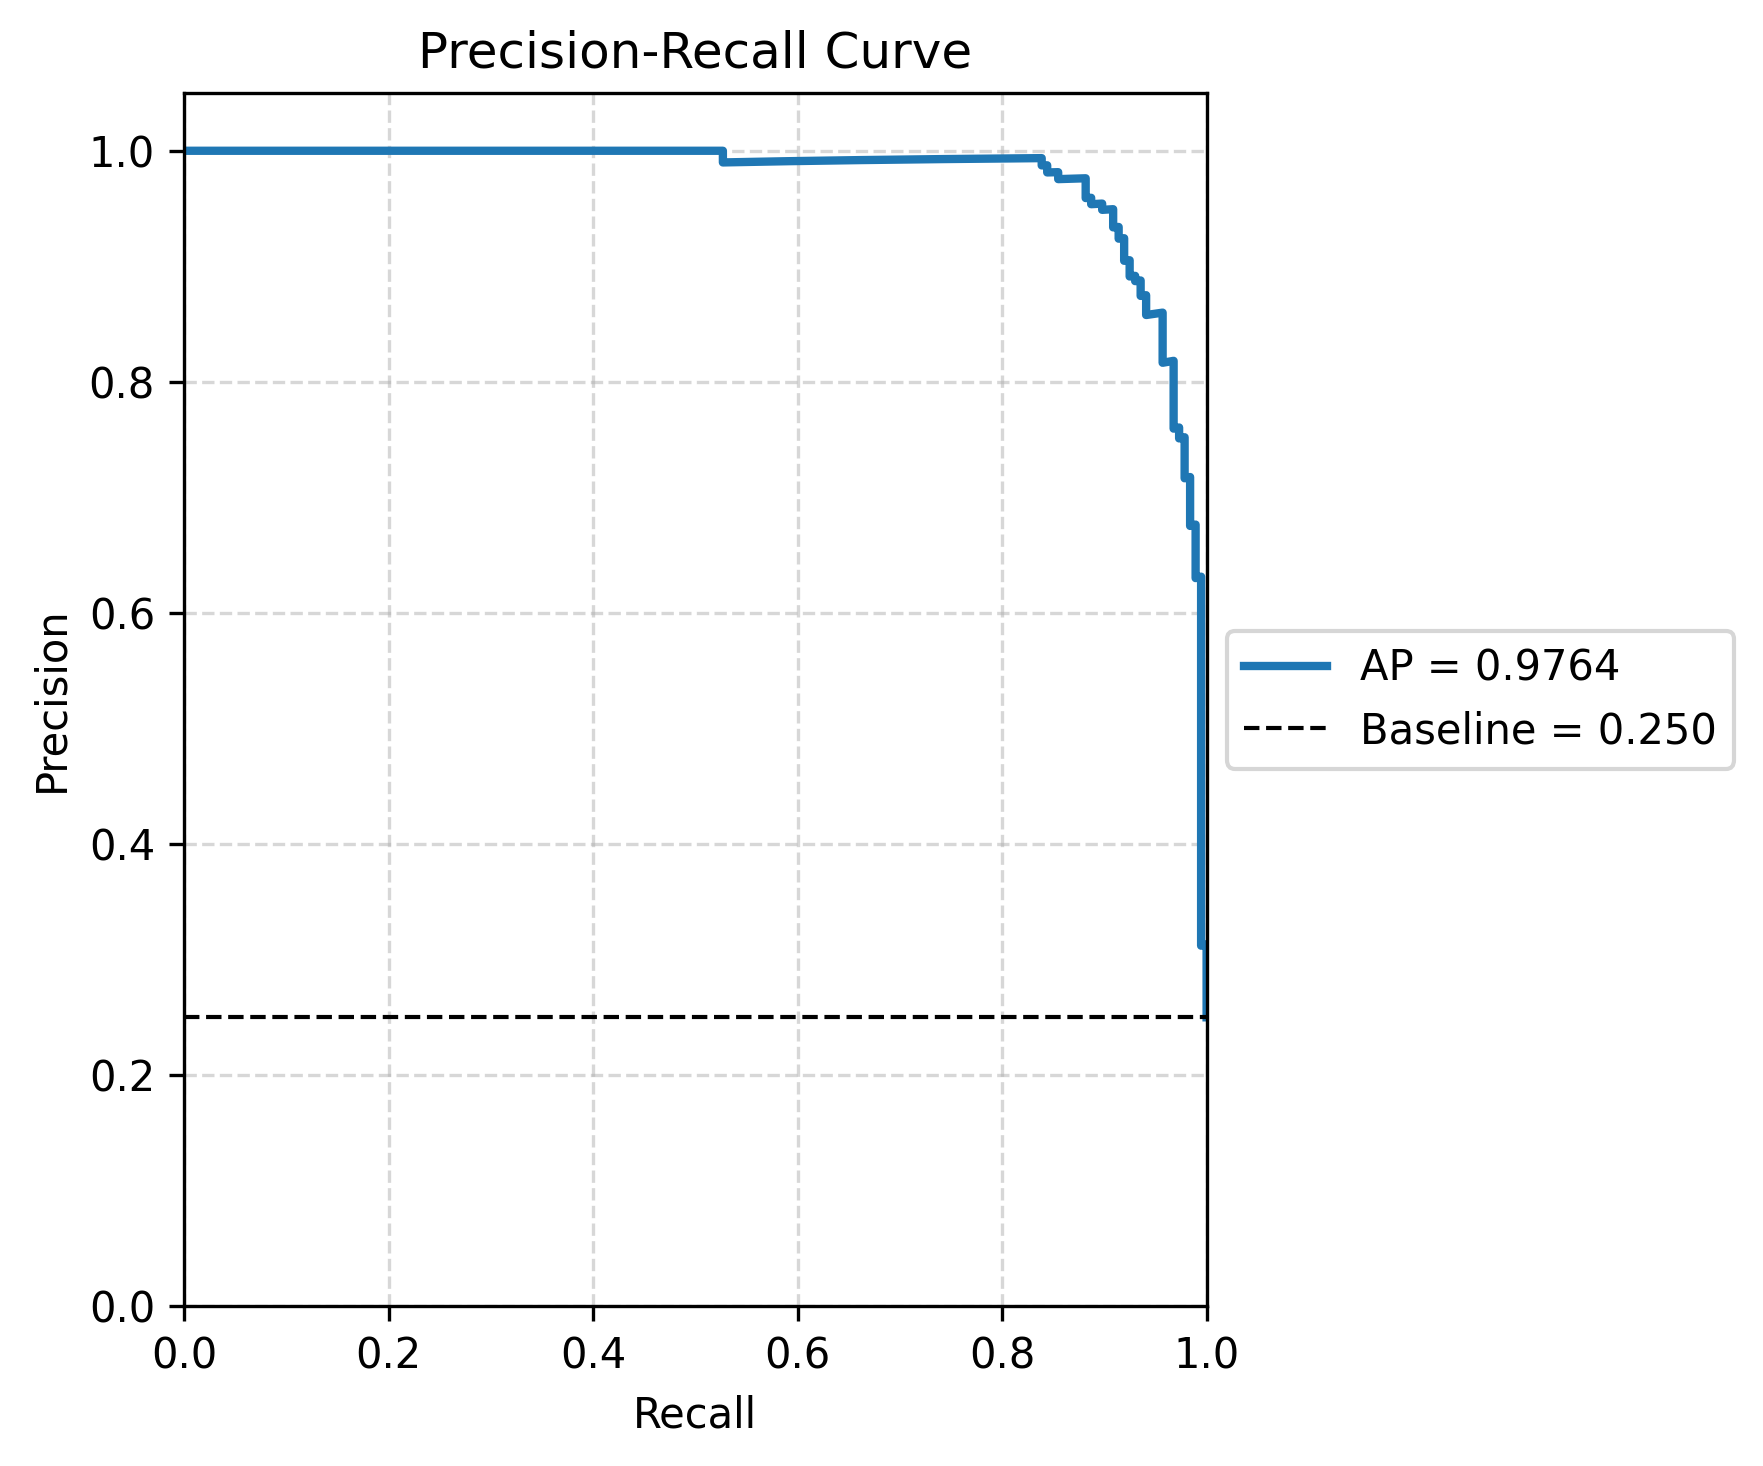
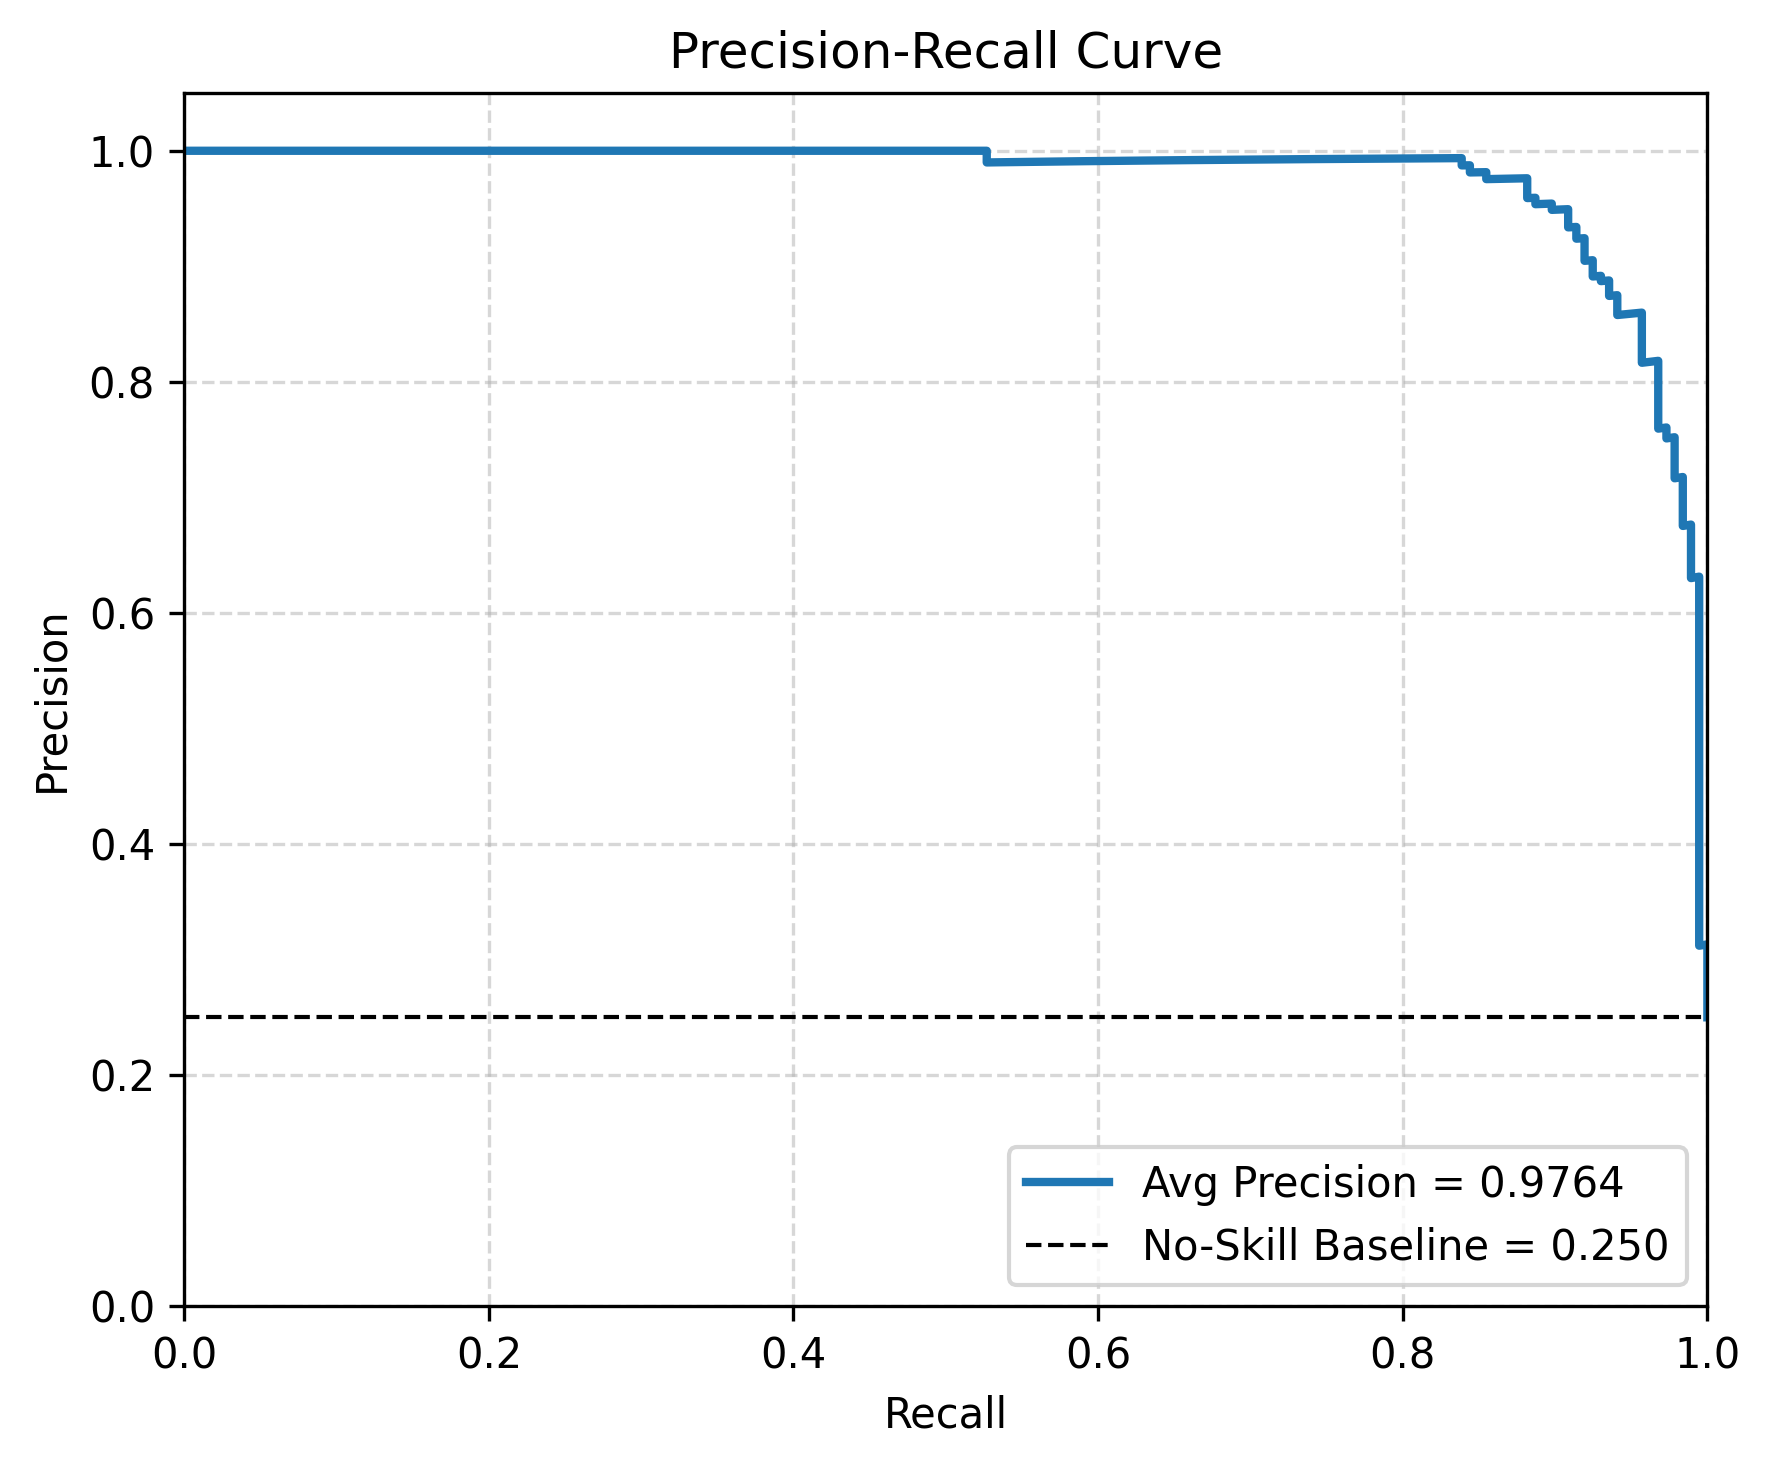
Add model3 evaluation artifacts and PR-curve labeling update

diff --git a/src/elp_gunshot/evaluate_cnn.py b/src/elp_gunshot/evaluate_cnn.py
@@ -145,13 +145,12 @@ def plot_pr_curve(preds_df: pd.DataFrame, output_dir: Path) -> None:
     baseline = y_true.mean()
 
     fig, ax = plt.subplots(figsize=(6, 5))
-    ax.plot(recall, precision, lw=2, label=f"AP = {ap:.4f}")
-    ax.axhline(baseline, color="k", linestyle="--", lw=1, label=f"Baseline = {baseline:.3f}")
+    ax.plot(recall, precision, lw=2, label=f"Avg Precision = {ap:.4f}")
+    ax.axhline(baseline, color="k", linestyle="--", lw=1, label=f"No-Skill Baseline = {baseline:.3f}")
     ax.set_xlabel("Recall")
     ax.set_ylabel("Precision")
     ax.set_title("Precision-Recall Curve")
-    # Keep legend off the plotted curve to avoid obscuring precision-recall shape.
-    ax.legend(loc="center left", bbox_to_anchor=(1.02, 0.5), borderaxespad=0.0)
+    ax.legend(loc="lower right")
     ax.grid(True, linestyle="--", alpha=0.5)
     ax.set_xlim([0.0, 1.0])
     ax.set_ylim([0.0, 1.05])
